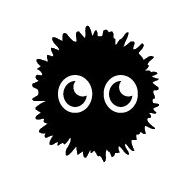
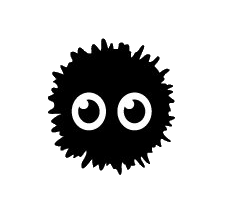
Add mood's to soot

Changed region(s): [[0.1546, 0.1237, 0.8351, 0.8351], [0.2784, 0.3711, 0.7113, 0.6186]]

diff --git a/pets/soot.py b/pets/soot.py
@@ -4,7 +4,8 @@ class Soot(Animal):
     def __init__(self, name: str):
         super().__init__(name)
         self.image_folder_path = "pets/media/soot/"
-        self.action = "idle"
+        self.action = "neutral"
+        self.mood_list = ["angry", "sad", "neutral", "happy"]
         
     def speak(self):
         return "*Soot sprite noises*"
@@ -12,6 +13,9 @@ class Soot(Animal):
     def feed(self):
         self.action = "eat"
         super().feed
+        
+    def pet(self):
+        self.action = self.mood_list[self.get_mood()]
     
     def get_image_path(self):
         return self.image_folder_path + self.action + ".png" 
